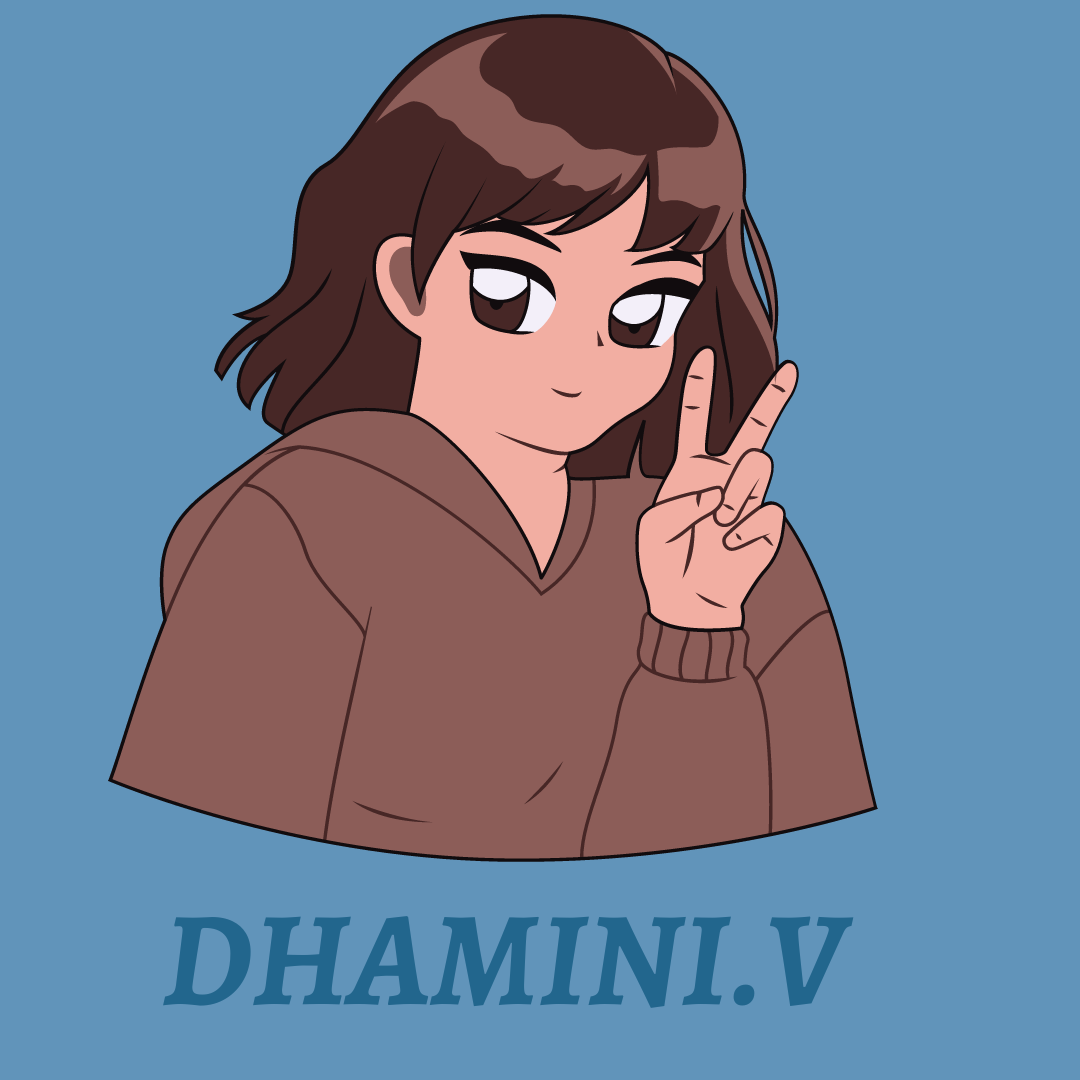
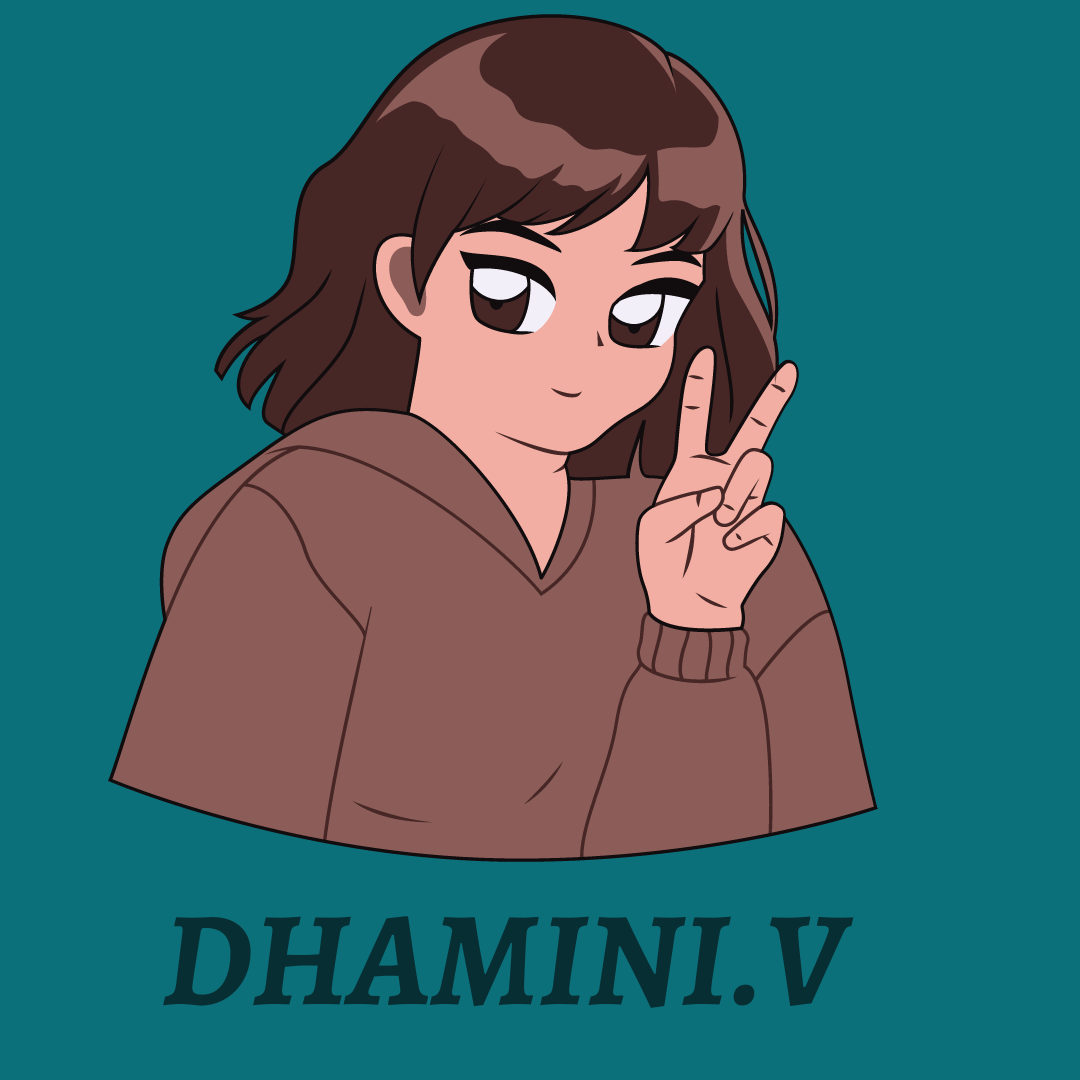
latest commit

diff --git a/src/app/skills/skills.component.html b/src/app/skills/skills.component.html
@@ -1,36 +1,33 @@
 <head>
     
 </head>
-<body>
+<body class="body">
     <div id="main4">
     <p id="skills">Skills</p>
     <div id="col1">
         <div id="frontend">
             <img src="../../assets/computer.svg">
             <p id="head">Frontend</p>
-            <p  id="head">HTML</p>
-            <p  id="head">CSS</p>
-            <p  id="head">JavaScript</p>
+            <p  id="head"><img src="../../assets/html-5.svg"></p>
+            <p  id="head"><img src="../../assets/css.svg"></p>
+            <p  id="head"><img src="../../assets/javascript-sharp.svg"></p>
             </div>
         <div id="database">
             <img src="../../assets/database.svg">
             <p id="head">Database</p>
-            <p  id="head">MYSQL</p>
-            <p  id="head">MySQL Workbench</p>
-            <p  id="head">SQLite</p>
-            <p  id="head">MongoDB</p>
-            <p  id="head">Firebase</p>
+            <p  id="head"><img src="../../assets/mysql.svg"></p>
+            <p  id="head"><img src="../../assets/mongodb.svg"></p>
+            <p  id="head"><img src="../../assets/firebase.svg"></p>
         </div>
     </div>
     <div id="col2">
         <div id="backend">
             <img src="../../assets/outline-settings.svg">
             <p id="head">Backend</p>
-                <p id="head">C</p>
-                <p id="head">C++</p>
-                <p  id="head">Java Swing</p>
-                <p  id="head">Python</p>
-                <p  id="head">Java</p>            
+                <p id="head"><img src="../../assets/c-16.svg"></p>
+                <p id="head"><img src="../../assets/c-plusplus-16.svg"></p>
+                <p  id="head"><img src="../../assets/python-fill (1).svg"></p>
+                <p  id="head"><img src="../../assets/java-logo.svg"></p>            
         </div>
         <div id="others">
             <img src="../../assets/other-admission-rounded.svg">

diff --git a/src/app/certificates/certificates.component.css b/src/app/certificates/certificates.component.css
@@ -1,10 +1,10 @@
 .main{
-    background-color: #6194ba;
+    background-color: #0c707b;
     height: auto;
     width: auto;
 }
 body{
-    background-color: #6194ba;
+    background-color: #0c707b;
 }
 #head{
     display: flex;
@@ -12,14 +12,14 @@ body{
     align-items: center;
     /* font-family: 'Gill Sans', 'Gill Sans MT', Calibri, 'Trebuchet MS', sans-serif; */
     /* font-style: italic; */
-    color: #2a4c68;
+    color: #072e33;
     font-size: 60px;
     font-style: oblique;
     
     
 }
 .scroll-container {
-    background-color: #6194ba;
+    background-color: #0c707b;
     overflow: auto;
     white-space: nowrap;
     padding: 10px;
@@ -27,60 +27,3 @@ body{
   .scroll-container img {
     padding: 10px;
   }  
-/* .division{
-    display: flex;
-}
-.col1{
-    text-align: center;
-}
-.col2{
-    text-align: center;
-}
-#cert1 img{
-    height:40%;
-    width:40%;    
-}
-#c1{
-    color: aliceblue;
-    
-}
-#cert2 img{
-    height:50%;
-    width:50%;
-}
-#c2{
-    color: aliceblue;    
-}
-#link a{
-    width: 20%;
-    height: 20%;
-    display: flex;
-    justify-content: center;
-    align-content: center;
-    text-decoration: none;
-    color: aliceblue;
-    border-radius: 5px;
-    border: 3px solid rgb(55, 225, 220);
-    background: #333;
-}
-#link a:hover{
-    animation: button-pulse 0.5s linear infinite;
-}
-#link{
-    display: flex;
-    justify-content: center;
-    align-content: center;
-    cursor: pointer;
-    transition: background-color 0.3s ease;
-}
-@keyframes button-pulse {
-    0% {
-        transform: scale(1);
-    }
-    50% {
-        transform: scale(1.1);
-    }
-    100% {
-        transform: scale(1);
-    }
-} */

diff --git a/src/app/home/home.component.css b/src/app/home/home.component.css
@@ -3,26 +3,27 @@
     grid-template-columns: repeat(auto-fill, minmax(500px, 1fr));
     justify-content: center;
     gap: 5%;
-    padding:5% 5% 0 5%;
+    padding:3% 5% 0 5%;
     font-style: normal;
     font-weight: 400;
 }
 body{
         height: auto;
         width: auto;
-        background-color: #6194ba;
+        background-color: #0c707b;
     }
 .main2{
     display: flex;
     flex-direction: column;
     justify-content: center;
-    color: #2a4c68;
+    color: #072e33;
     font-family:'Gill Sans', 'Gill Sans MT', Calibri, 'Trebuchet MS', sans-serif;
     font-style:italic;
   
 }
 #hey{
-    padding-bottom: 0.5rem;
+
+    padding-bottom: 0.3rem;
     font-size: 25px;
     /* font-family: 'Edu TAS Beginner', cursive; */
 }
@@ -34,7 +35,7 @@ body{
     /* font-family: 'Dancing Script', cursive; */
 }
 #colour{
-    color:#2a4c68;
+    color:#072e33;
 }
 #content{
     font-size: 25px;
@@ -48,18 +49,18 @@ body{
 #resu{
     font-family: 'Edu TAS Beginner', cursive;
     border-radius: 1re; 
-    background: #adcbe3 ;
+    background: #0f969c ;
     margin-left: 3rem;
 }
 #resu a{
     text-decoration: none;
-    color:#22668D;
+    color:#072e33;
     font-size:20px;
     font-weight: bold;
     text-align: center;
 }
 #resu img{
-    width:10%;
+    width:8%;
     padding-top: 1%;
     place-items: center;
 } 

diff --git a/src/app/skills/skills.component.css b/src/app/skills/skills.component.css
@@ -1,16 +1,12 @@
 #main4{
-    background-color: #6194ba;
+    background-color: #0c707b;
      width: auto; 
      height: auto; 
     display: grid;    
     grid-template-columns: repeat(3 ,1fr);
 }
-body{
-        background-color: #6194ba;
-        margin-top: 1%;
-    }
 #skills{
-    color: #2a4c68;
+    color: #072e33;
     padding-left: 20%;
     text-align: left;
     font-size: 500%;
@@ -25,7 +21,7 @@ body{
     grid-template-columns: repeat(auto-fill, minmax(350px, 1fr)); */
 }
 #frontend,#backend{
-    background-color: #2a4d68;
+    background-color: #0f969c;
     display: flex;
     flex-direction: column;
     justify-content: center;
@@ -48,8 +44,8 @@ body{
     margin-top: 10px;
 }
 #database,#others{
-    color: #adcbe3;
-    background-color: #2a4d68;
+    color: #072e33;
+    background-color: #0f969c;
     width: 20vw;
     height: 50vh;
     display: flex;
@@ -66,7 +62,7 @@ body{
 }
 #head{
     font-size: 30px;
-    color: #adcbe3;
+    color: #072e33;
     /* font-family: 'Gill Sans', 'Gill Sans MT', 'Calibri', 'Trebuchet MS', sans-serif;
     font-style: italic; */
    

diff --git a/src/app/projects/projects.component.css b/src/app/projects/projects.component.css
@@ -1,22 +1,22 @@
 .main{
     width: auto;
-    color: #6194ba;
+    color: #0c707b;
 }
 body{
   height: auto;
-  background-color: #6194ba;
+  background-color: #0c707b;
 }
 #heading{
     /* font-family: 'Gill Sans', 'Gill Sans MT', Calibri, 'Trebuchet MS', sans-serif;
     font-style: italic; */
-    color: #2a4c68;
+    color: #072e33;
     font-size: 400%;
     text-align: center;
     font-style: oblique;
     
 }
 .main2{
-  color: #22668d;
+  color: #072e33;
     width: 100%;
     height: 50vh;
     display: flex;
@@ -28,7 +28,7 @@ body{
   height: 250px; 
   perspective: 1000px;}  
   .card-inner {
-    border: 5px solid #fffadd;
+    border: 5px solid #0f969c;
     border-radius: 0.5rem;
     box-shadow: 2px 2px 2px rgb(48, 117, 117);
   width: 100%;
@@ -40,7 +40,7 @@ body{
   .card-front, .card-back {
   position: absolute; width: 100%;
   /* background-color: blanchedalmond; */
-  color: #22668d;  
+  color: #072e33;  
   height: 100%; backface-visibility: hidden;
   } 
   .card-front img{    

diff --git a/src/app/contacts/contacts.component.css b/src/app/contacts/contacts.component.css
@@ -1,12 +1,12 @@
 .main{
-    background-color: #adcbe3;
+    background-color: #0f969c;
     height: auto;
     width: auto;
     display: grid;
     grid-template-columns: repeat(3,1fr);
 }
 .col1{
-    color: #22668d;
+    color: #072e33;
     /* margin-left: 7%; */
     padding-top: 20%;
     text-align: center; 
@@ -23,7 +23,7 @@
 }
 .col2{
     height: auto;
-    color: #22668d;
+    color: #072e33;
     padding-top: 10%;
     font-size: 20px;
     /* padding-left: 2%; */
@@ -40,7 +40,7 @@
     width: 1rem;
 }
 .navbar1{
-    color: #22668d;
+    color: #072e33;
     padding-top: 12%;
     font-size: 20px;
     padding-left: 2%;
@@ -51,7 +51,7 @@
 }
 a{
     text-decoration:none;
-    color: #22668d;
+    color: #072e33;
 }
 #home:hover,#skills:hover,#Certify:hover,#Projects:hover,#contact:hover{
     text-indent: 3%;

diff --git a/src/app/header/header.component.css b/src/app/header/header.component.css
@@ -11,10 +11,10 @@ body{
     /* scroll-behavior: smooth; */
     padding-top: 1%;
     width: auto;
-    background-color:#adcbe3 ;
+    background-color:#0f969c ;
 }
 #ds{
-    color: #22668D;
+    color: #072e33;
     /* font-family: 'IBM Plex Sans', sans-serif;
     font-family: 'Montserrat', sans-serif;
     font-family: 'Playpen Sans', cursive; */
@@ -25,10 +25,10 @@ padding-top: 1%;
 padding-left: 0%;
 }
 #D{
-    color:  #22668D;
+    color:  #072e33;
 }
 #O{
-    color:  #22668D; 
+    color:  #072e33; 
 }
 .navbar{
     display: flex;
@@ -43,10 +43,7 @@ padding-right: 5%;
 }
 a{
     text-decoration: none;
-    color:black ;
+    color:#072e33 ;
 }
 
-a.active{
-    color: #22668D; 
-}
 
